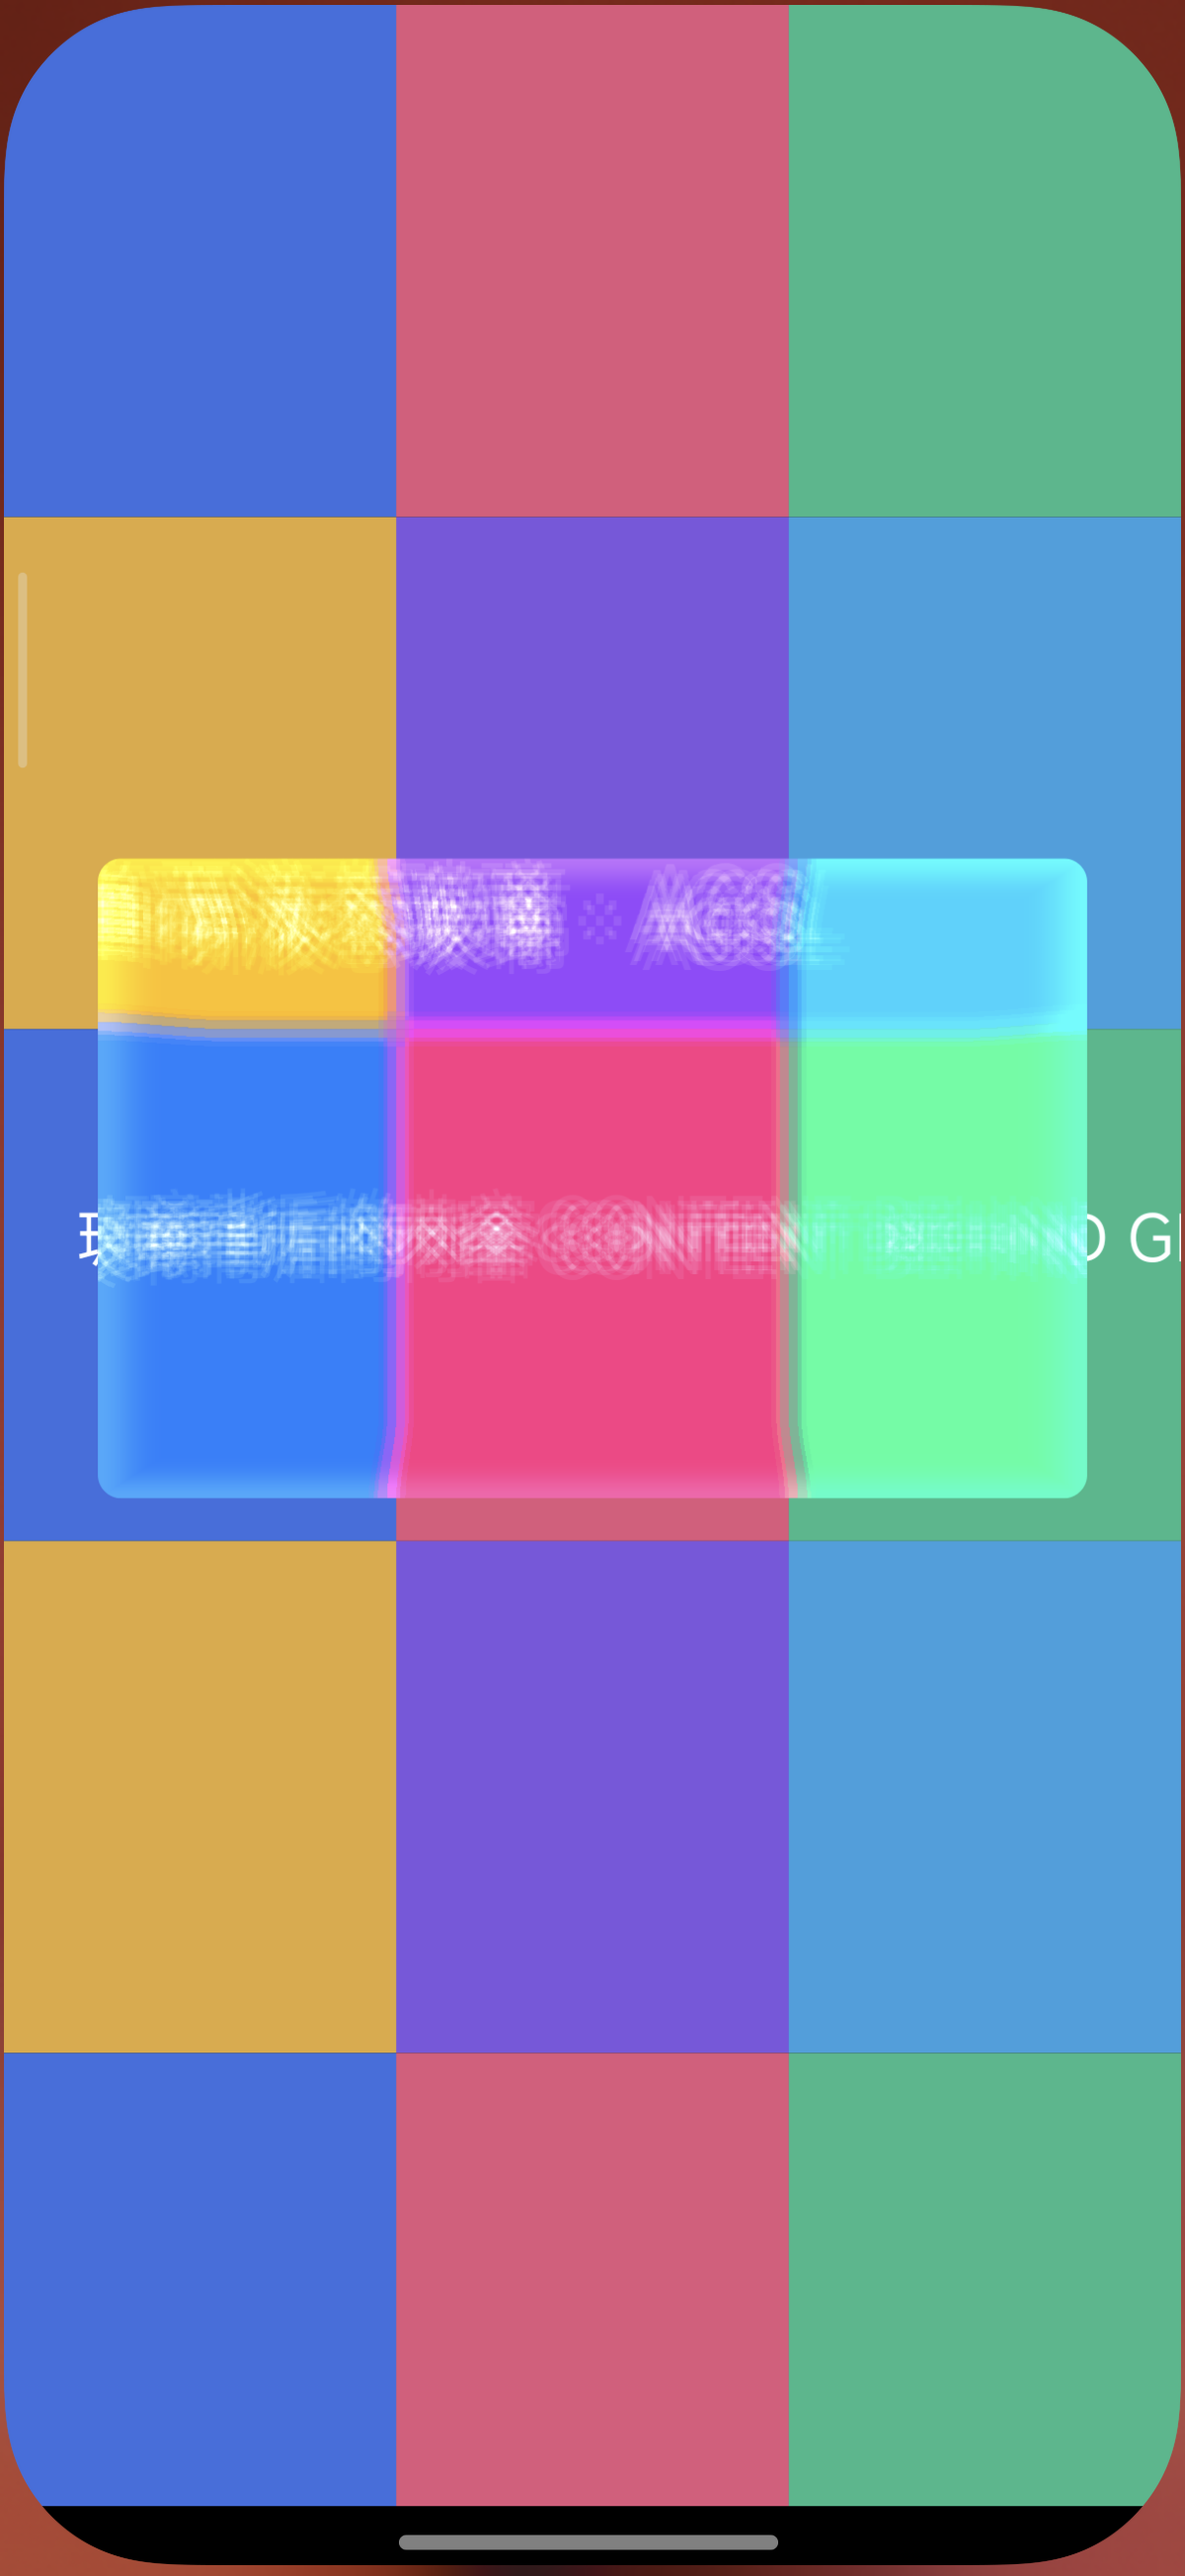
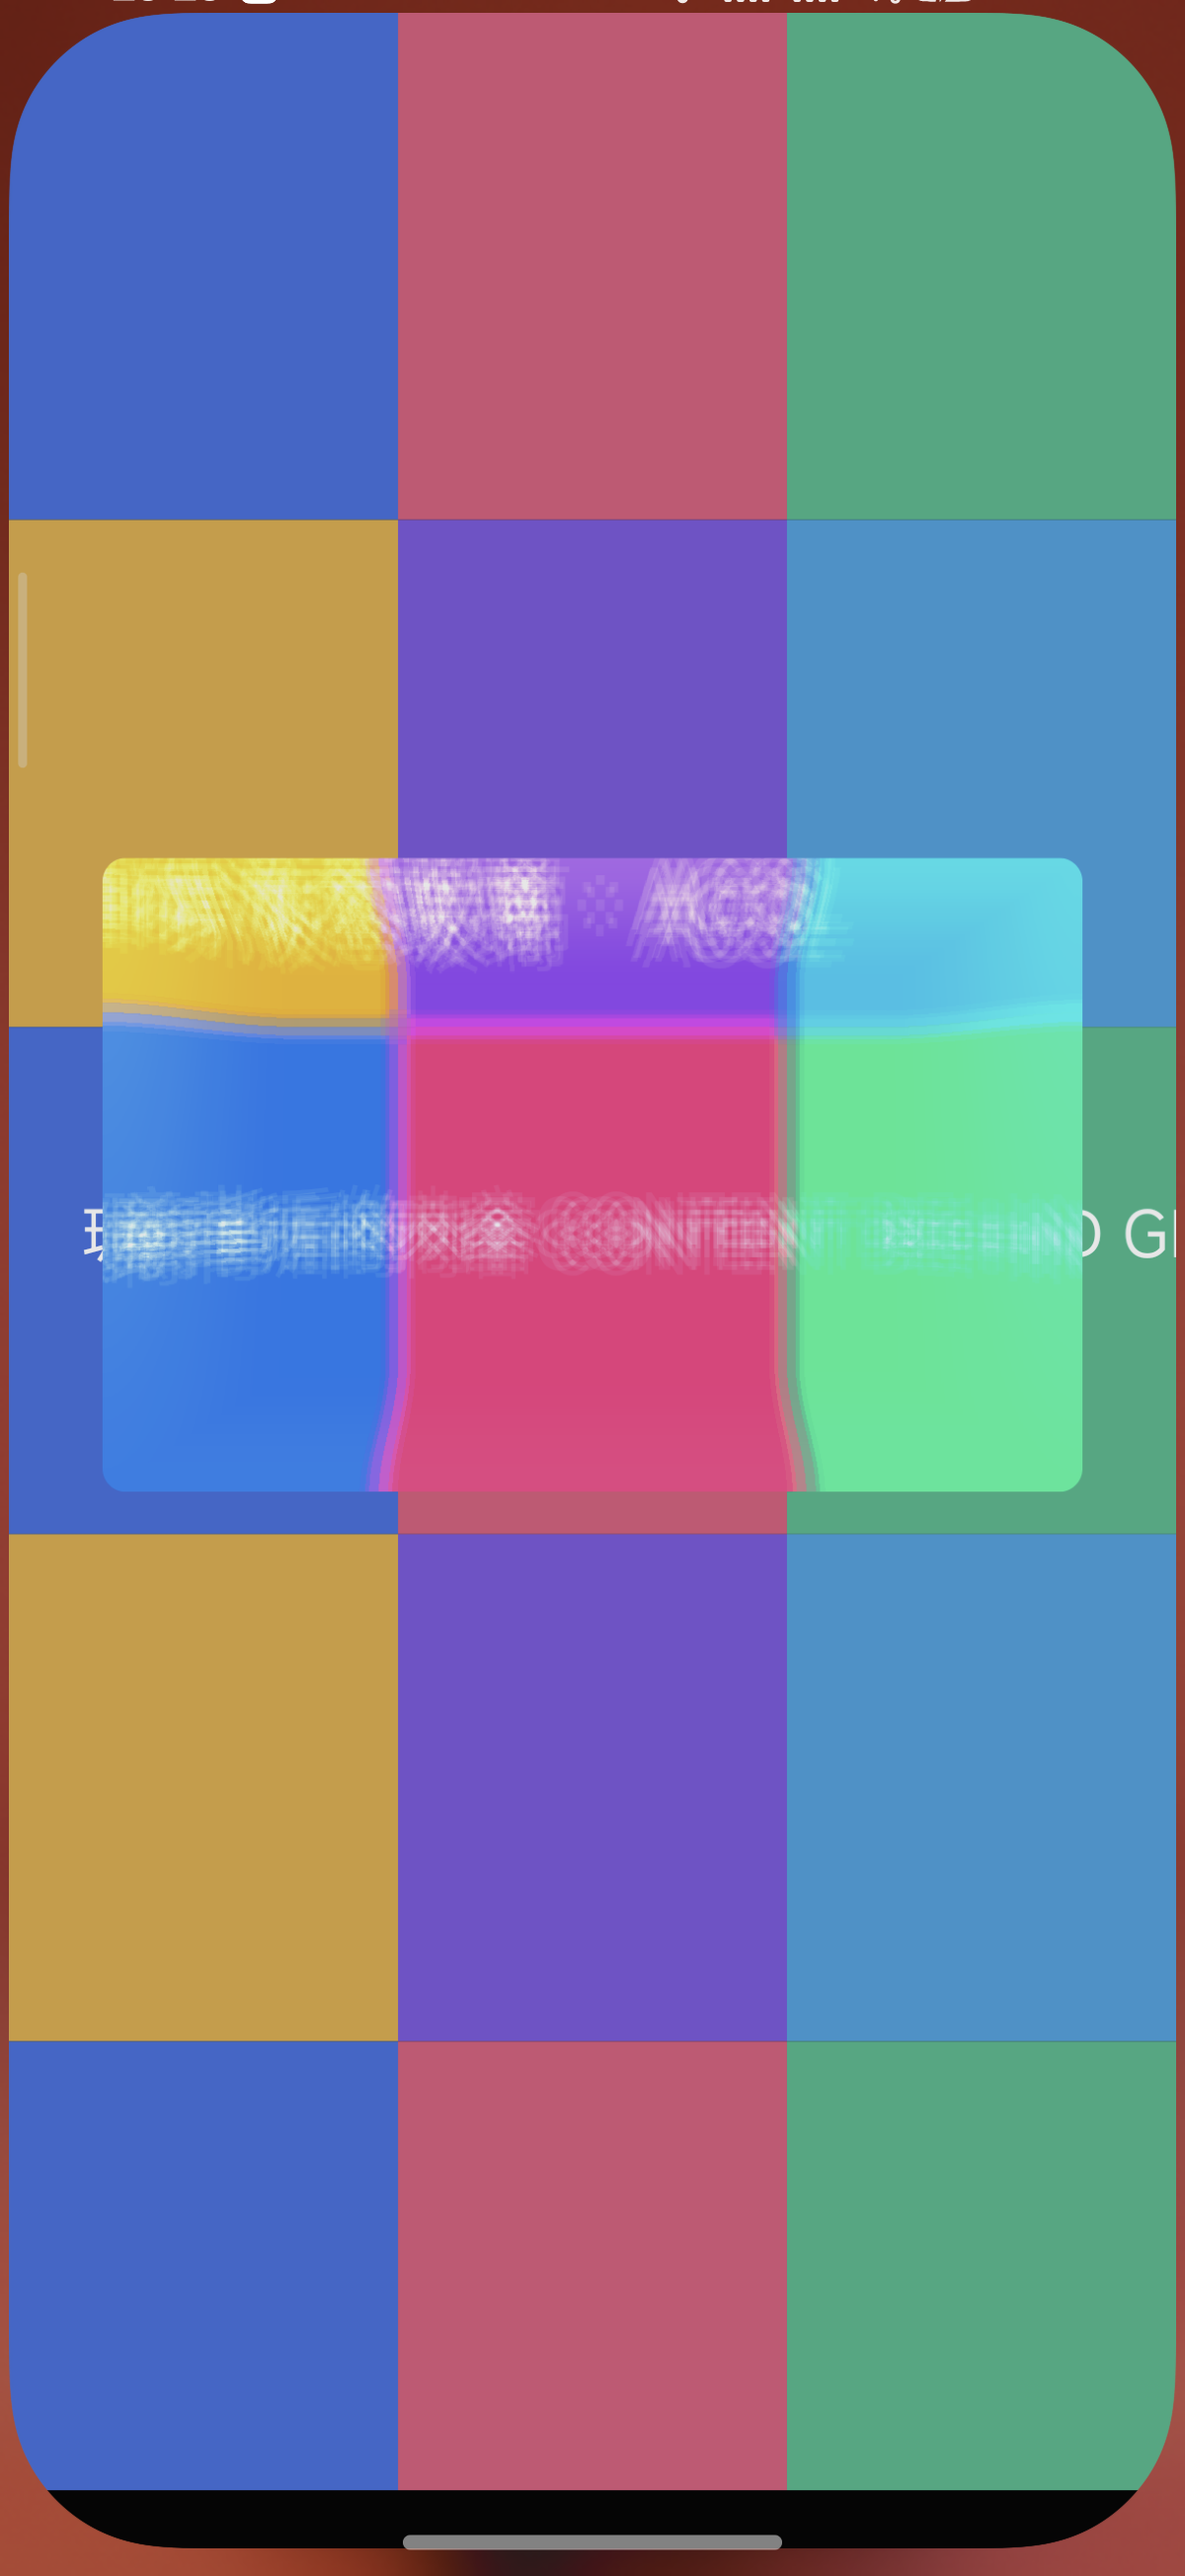
feat(glass): 液态玻璃观感优化 v3——柔和全局透镜(连续无条纹) + 内阴影 + 顶部高光带
对比 iOS：v6 的强折射呈波浪；v7 法向位移在边界跳变产生条纹 ⇒ 回退**柔和全局透镜**（边缘宽过渡
0.20 + 折射 0.09，连续无跳变）+ 边缘内阴影(darken 5%) + 顶部更亮的高光带。真机截图：色块边缘平滑
透镜外凸 + 镜面高光边 + 透亮。仍可继续调（模糊半径/条痕）。

diff --git a/hosts/android/app/src/main/java/dev/proteus/layoutcore/runtime/GlassMaterial.java b/hosts/android/app/src/main/java/dev/proteus/layoutcore/runtime/GlassMaterial.java
@@ -45,12 +45,11 @@ public final class GlassMaterial {
             + "half4 main(float2 coord) {\n"
             + "    float2 uv = (coord - rectOrigin) / size;\n"
             + "    float2 dE = min(uv, 1.0 - uv);\n"
-            + "    float edge = min(dE.x, dE.y);\n"                        // 0=边, 0.5=心
-            + "    // ① 边缘凸透镜：uv 向中心收缩（边缘压缩背后内容 → 厚玻璃感）\n"
-            + "    float lens = (1.0 - smoothstep(0.0, 0.13, edge)) * refractAmt;\n"
-            + "    float2 uv2 = (uv - 0.5) * (1.0 - lens * 0.16) + 0.5;\n"
-            + "    float2 c = rectOrigin + uv2 * size;\n"
-            + "    // ② 环形模糊（13 点：中心 + 两圈——半径 ~blur，frosted 而不发白）\n"
+            + "    // ① 边缘折射：**柔和全局透镜**（边缘向中心轻微收缩——连续无跳变 ⇒ 无条纹/水波）\n"
+            + "    float band = 1.0 - smoothstep(0.0, 0.20, min(dE.x, dE.y));\n"       // 1=贴边, 0=内（宽过渡=柔）
+            + "    float lens = band * refractAmt;\n"
+            + "    float2 c = rectOrigin + ((uv - 0.5) * (1.0 - lens * 0.09) + 0.5) * size;\n"
+            + "    // ② 环形模糊（13 点）——半径 ~blur，frosted 而不发白\n"
             + "    float r = max(blur, 0.0) * 0.75;\n"
             + "    half4 acc = content.eval(c);\n"
             + "    acc += content.eval(c + float2(r, 0.0));\n"
@@ -74,8 +73,9 @@ public final class GlassMaterial {
             + "    col.rgb = (col.rgb - 0.5) * half(contrast) + 0.5;\n"
             + "    // ④ tint（逐通道，少量——液态玻璃透亮不泛白）\n"
             + "    col.rgb = mix(col.rgb, col.rgb * half3(tint.rgb) * 2.0, half(tint.a));\n"
-            + "    // ⑤ 镜面高光边（rim：贴边最亮，向内快速衰减）\n"
-            + "    float rim = pow(1.0 - smoothstep(0.0, 0.075, edge), 1.6) * specular;\n"
+            + "    // ⑤ 边缘：内阴影（subtle darken）+ 镜面高光带（贴边亮，向内柔衰减）——对齐系统的柔和厚边\n"
+            + "    col.rgb *= (1.0 - band * 0.05);\n"
+            + "    float rim = band * specular * (0.35 + 0.65 * (1.0 - uv.y));\n"        // 顶部更亮
             + "    col.rgb = min(col.rgb + half3(rim), half3(1.0));\n"
             + "    col.a = 1.0;\n"
             + "    return col;\n"
@@ -116,7 +116,7 @@ public final class GlassMaterial {
             sh.setFloatUniform("size", w, h);
             sh.setFloatUniform("blur", spec.blur);
             sh.setFloatUniform("saturation", spec.saturation);
-            sh.setFloatUniform("refractAmt", 0.28f);  // 边缘折射强度（subtle——过强会"融化"）
+            sh.setFloatUniform("refractAmt", 1.0f);   // 边缘折射带强度（幅度内含 ×0.08 px 级）
             sh.setFloatUniform("specular", 0.16f); // 镜面高光边
             sh.setFloatUniform("contrast", 1.06f); // 微对比（更"透亮"）
             float a = ((spec.tint >>> 24) & 0xFF) / 255f;
